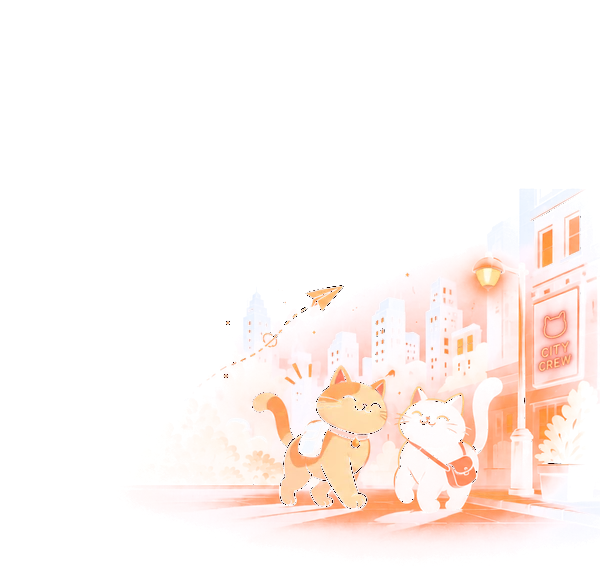
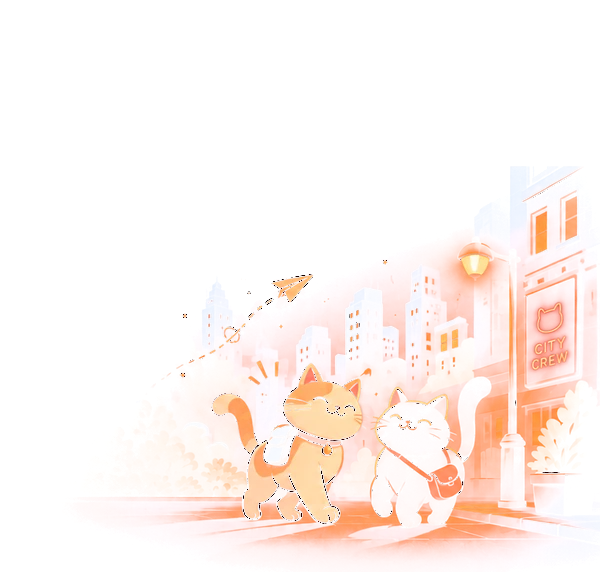
The cats come closer (#694)
With a third of the frame given to empty sky, the street had shrunk to
sixty percent of its height. The paint now runs from 30% to 97% of the
frame and the band is 12pt taller for the room the lede keeps under
itself; the painting is about a fifth larger, still clear of the
status bar.

Claude-Session: https://claude.ai/code/session_01LFLiGzDK6EkbC1UikBDEFm

diff --git a/app/src/components/IdeasHeaderArt.tsx b/app/src/components/IdeasHeaderArt.tsx
@@ -23,11 +23,13 @@
 //
 // Its height follows the band: safe-area inset plus the row's paddings
 // plus the title-and-lede column at one line each. The frame reaches the
-// screen top, but the *paint* does not: the files carry a third of
-// transparent sky above the first brushstroke, so on a phone with a
-// 59pt status bar the plane and the rooftops begin just under it rather
-// than behind it — the first build had them at the very top, and the
-// Dynamic Island sat on the plane. A title that wraps (Japanese does, at
+// screen top, but the *paint* does not: the files carry transparent sky
+// for the top 30% of the frame, so on a phone with a 59pt status bar
+// the plane and the rooftops begin just under it rather than behind it
+// — the first build had them at the very top, and the Dynamic Island
+// sat on the plane. The second had a full third of sky and the cats
+// came out small; the paint now runs to 97% of the frame, and the band
+// is 12pt taller for the room the lede keeps under itself. A title that wraps (Japanese does, at
 // 375pt) makes the row taller, the painting keeps its height and its
 // bottom, and the sky above it is transparent anyway.
 //
@@ -68,10 +70,11 @@ export const ART_ASPECT = 600 / 572;
 /** Plain sky at the painting's left edge, in points at the rendered
  *  size: how far the title may run onto it. */
 export const OVERLAP = 50;
-/** The title-and-lede column at one line each: a 34pt title's line box
- *  and three 24pt lede lines with the gap between. The header row adds
- *  its own paddings (8 above, 14 below). */
-export const BAND = 41 + 6 + 3 * 24;
+/** The title-and-lede column at one line each: a 34pt title's line box,
+ *  three 24pt lede lines with the gap between, and the room the lede
+ *  keeps under itself before the first section. The header row adds its
+ *  own paddings (8 above, 14 below). */
+export const BAND = 41 + 6 + 3 * 24 + 12;
 const ROW_PADDING = 8 + 14;
 
 /** Rendered height of the painting for a given top inset. Exported for

diff --git a/app/src/screens/IdeasScreen.tsx b/app/src/screens/IdeasScreen.tsx
@@ -562,12 +562,14 @@ export default function IdeasScreen({ navigation }: { navigation: Nav }) {
 
 const s = StyleSheet.create({
   // The quote face the Profile footer wears, sized for a lede, in the
-  // title's own column — so no page padding of its own. The 24pt line
-  // and the 6pt above are what `IdeasHeaderArt.BAND` counts on; change
-  // one, change both. A face means no fontWeight (theme's rule).
+  // title's own column — so no page padding of its own. The 24pt line,
+  // the 6pt above and the 12pt below are what `IdeasHeaderArt.BAND`
+  // counts on; change one, change both. The 12 is the room before the
+  // first section heading, which sat 13pt under the lede without it.
+  // A face means no fontWeight (theme's rule).
   lede: {
     color: colors.textTertiary, fontFamily: quoteFace, fontSize: 16, lineHeight: 24,
-    marginTop: 6,
+    marginTop: 6, marginBottom: 12,
   },
   heading: {
     color: colors.text, ...type.headline,

diff --git a/app/scripts/ideas-art.py b/app/scripts/ideas-art.py
@@ -12,18 +12,19 @@ colour, the painting in its right half. The steps, for each:
 
   1. shift the whole image so the ground lands on the page colour
      exactly (#0A0B0A for the night, #F5F1EA for the afternoon);
-  2. crop a window of the frame's aspect (600:572) with the paint in its
-     lower two thirds — the top third is what keeps the rooftops from
-     under the status bar — padding with the ground colour where the
-     window runs off the source;
+  2. crop a window of the frame's aspect (600:572) with the paint from
+     30% to 97% of its height — the empty top is what keeps the rooftops
+     from under a 59pt status bar; the ground's faintest fade runs off
+     the bottom, which a page shows as nothing — padding with the ground
+     colour where the window runs off the source;
   3. resize, then key the ground to alpha with colour-to-alpha: the
      smallest alpha that reproduces each pixel over the page colour,
      zeroed where the pixel is within three units of it (grain) and
      ramped to full weight by ten.
 
 The crop windows below were chosen by measuring where the paint is
-(pixels more than twelve units from the ground) so it fills 33%–93% of
-the frame's height; a new render with the cats elsewhere needs them
+(alpha above 0.2 after keying, which is what the build prints) so it
+fills 30%–97% of the frame's height; a new render with the cats elsewhere needs them
 re-measured. Needs Pillow and numpy.
 """
 
@@ -36,8 +37,8 @@ from PIL import Image
 OUT = (600, 572)
 # name, page colour, crop window (x0, y0, x1, y1) on the 1536×1024 source
 JOBS = [
-    ('dark', (0x0A, 0x0B, 0x0A), (581, -300, 1536, 610)),
-    ('light', (0xF5, 0xF1, 0xEA), (331, -342, 1536, 807)),
+    ('dark', (0x0A, 0x0B, 0x0A), (680, -237, 1536, 579)),
+    ('light', (0xF5, 0xF1, 0xEA), (451, -273, 1536, 761)),
 ]
 
 
